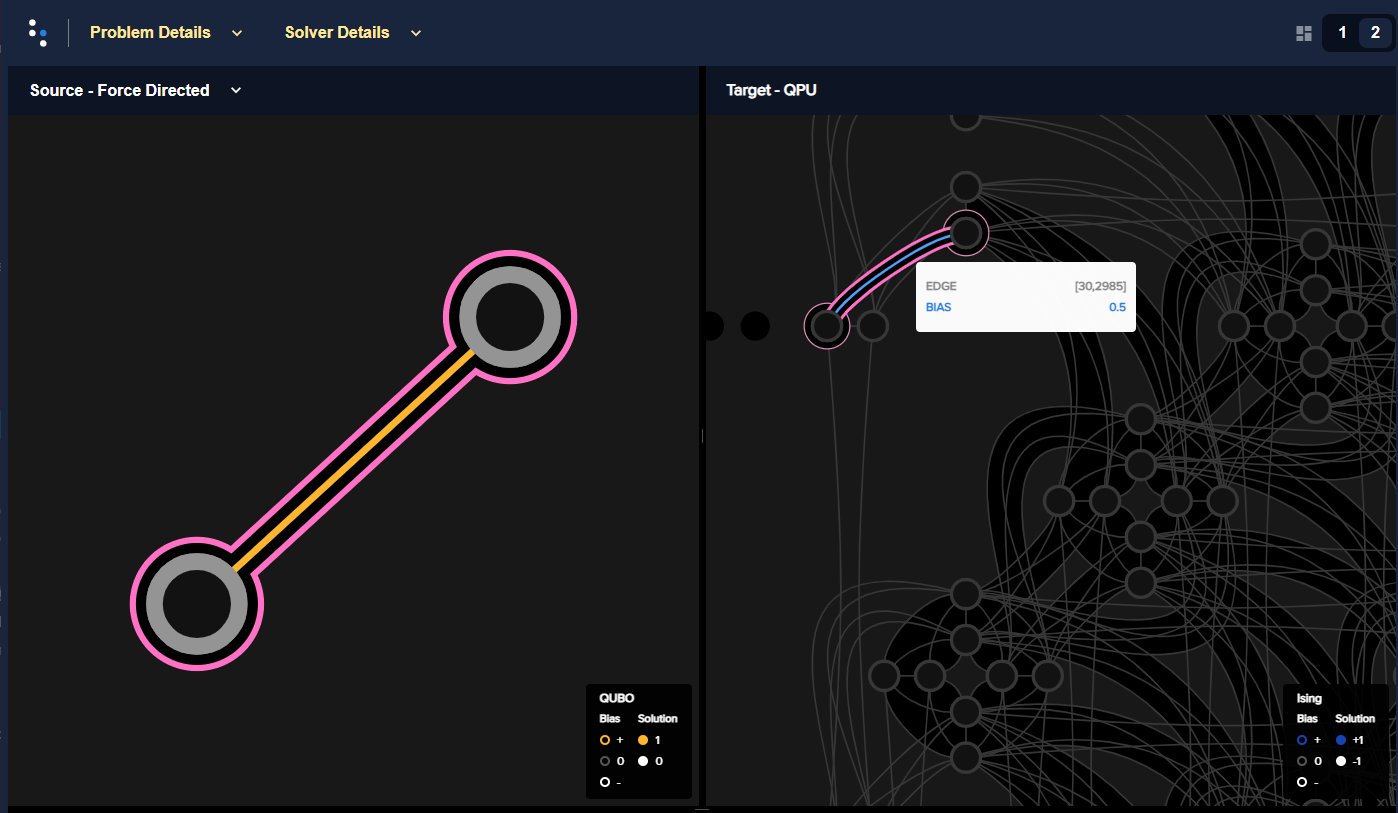
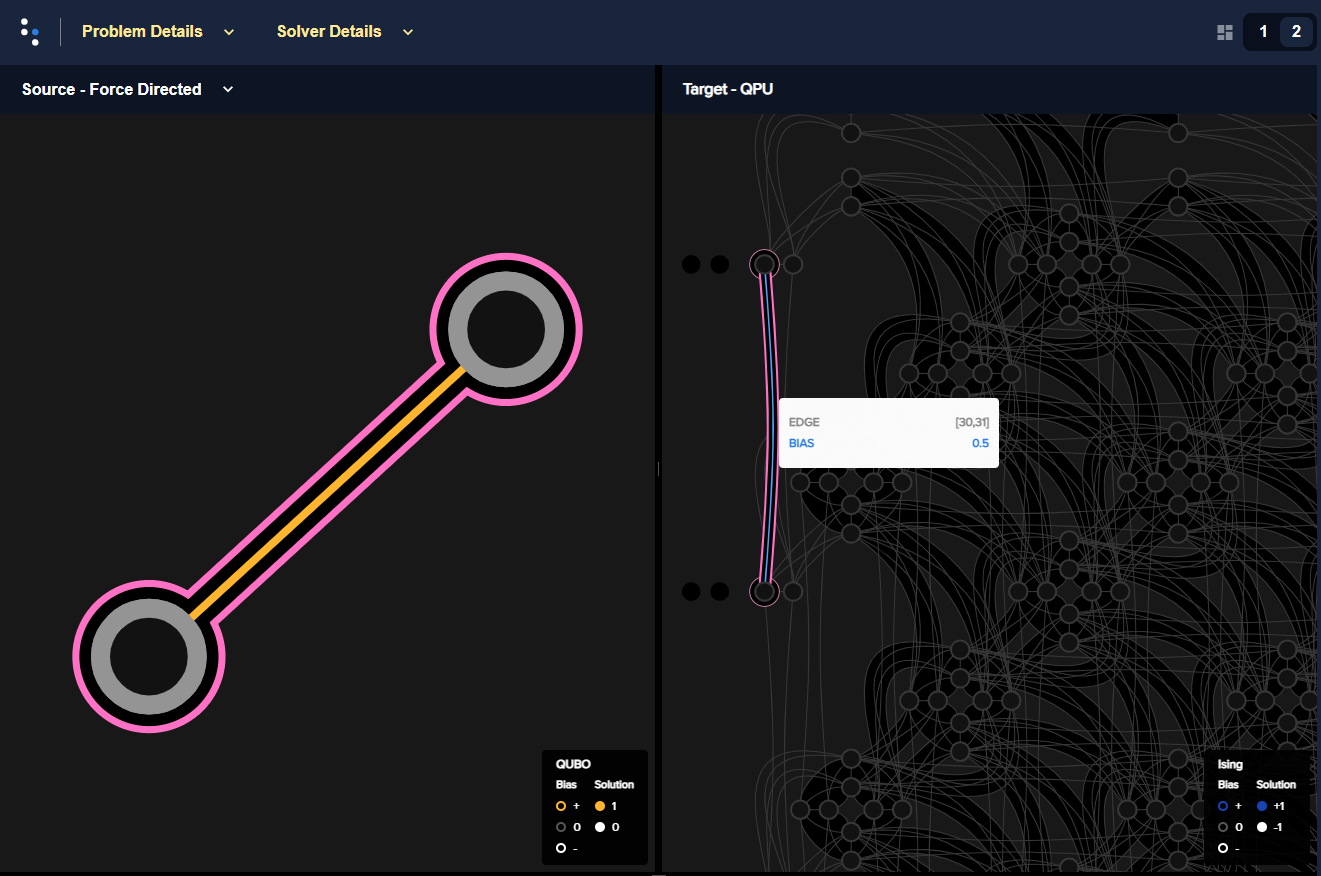
Update AND example to Pegasus (part 2)

diff --git a/docs/examples/and.rst b/docs/examples/and.rst
@@ -131,6 +131,8 @@ The line of code below sets the QUBO coefficients for this AND gate.
 
 >>> Q = {('x1', 'x2'): 1, ('x1', 'z'): -2, ('x2', 'z'): -2, ('z', 'z'): 3}
 
+.. _and_solve_by_sampling: 
+
 Solve the Problem by Sampling (Automated Minor-Embedding)
 =========================================================
 
@@ -193,8 +195,9 @@ following coefficients:
 Minor embedding maps the two problem variables x and z to the indexed qubits of the
 D-Wave QPU. Here, do this mapping yourself.
 
-The next line of code looks at properties of the sampler. Select the first node,
-which on a QPU is a qubit, and print its adjacent nodes, i.e., coupled qubits.
+The next line of code looks at the ``nodelist`` property of the sampler. Select 
+the first node, which on a QPU is a qubit, and print its adjacent nodes, i.e., 
+coupled qubits.
 
 >>> sampler.nodelist[0]
 30
@@ -202,12 +205,12 @@ which on a QPU is a qubit, and print its adjacent nodes, i.e., coupled qubits.
 {2985, 2955, 45, 2970, 2940, 31}
 
 For the Advantage system the above code ran on, you see that the first available 
-qubit, ``30``, is adjacent to qubit ``2985`` and a few others. 
+qubit, ``30``, is adjacent to qubit ``31`` and a few others. 
 
-You can map the NOT problem's two linear coefficients and single quadratic
-coefficient, :math:`q_1=q_2=-1` and :math:`q_{1,2}=2`, to biases on the 
-Advantage's qubits ``30`` and ``2985`` and coupling ``(30, 2985)``. The figure 
-below shows a minor embedding of the NOT gate onto an Advantage QPU.\ [2]_
+You can map the NOT problem's two linear coefficients (:math:`-1x` and :math:`-1z`) 
+and single quadratic coefficient (:math:`2xz`) to biases on the  Advantage's 
+qubits ``30`` and ``31`` and coupling ``[30, 31]``. The figure 
+below shows a minor embedding of the NOT gate onto an Advantage QPU.
 
 .. figure:: ../_images/embedding_pegasus_NOT.png
     :name: Embedding_Pegasus_NOT
@@ -216,30 +219,37 @@ below shows a minor embedding of the NOT gate onto an Advantage QPU.\ [2]_
     :scale: 50 %
 
     A NOT gate minor embedded onto an Advantage QPU. Variables :math:`x,z` 
-    (left) are minor-embedded as qubits ``30`` and ``2985`` (right). Coupling 
-    strength :math:`q_{1,2}=0.5` is also shown.
+    (left) are minor-embedded to qubits ``30`` and ``31`` (right). This 
+    visualization is produced by Ocean's :std:doc:`docs_inspector/sdk_index` tool.
+    
+Notice that coupling strength is :code:`BIAS 0.5` above: as explained in the 
+:std:doc:`system documentation <sysdocs_gettingstarted:doc_getting_started>`,
+the QPU can be viewed as minimizing an Ising model (see [1_]), with linear 
+biases setting the amplitudes of magnetic fields applied to qubits and quadratic 
+biases the strength of coupling between qubits. Values of a submitted QUBO are
+therefore values translated to an equivalent Ising model, producing the bias of 
+``0.5`` for the ``[30, 31]`` coupler (shown above) and zero biases on the two 
+qubits (not shown above):
 
-.. [2]
-    As explained in the 
-    :std:doc:`system documentation <sysdocs_gettingstarted:doc_getting_started>`,
-    on the QPU linear biases (amplitude of magnetic fields applied to qubits) 
-    and quadratic biases (strength of coupling between qubits) represent an 
-    Ising model (see [1_]), and therefore values are translated,
-
-    >>> dimod.qubo_to_ising(Q_not) 
-    ({'x': 0.0, 'z': 0.0}, {('x', 'z'): 0.5}, -0.5)
-
-    producing the bias of ``0.5`` for coupler ``(30, 2985)`` above. 
+>>> dimod.qubo_to_ising(Q_not) 
+({'x': 0.0, 'z': 0.0}, {('x', 'z'): 0.5}, -0.5)
 
 The following code uses the :class:`~dwave.system.composites.FixedEmbeddingComposite` 
-composite to manually minor-embed the problem on an Advantage QPU. 
+composite to manually minor-embed the problem on this Advantage QPU.\ [#]_ 
 
 >>> from dwave.system import FixedEmbeddingComposite
->>> sampler_embedded = FixedEmbeddingComposite(sampler, {"x": [30], "z": [2985]})
->>> print(sampler_embedded.adjacency["x"])
+>>> sampler_embedded = FixedEmbeddingComposite(sampler, {"x": [30], "z": [31]})   
+>>> print(sampler_embedded.adjacency["x"])   # doctest: +SKIP
 {'z'}
 
-As before, ask for 5000 samples.
+.. [#]
+    For your selected QPU, use your :code:`sampler.nodelist[0]` qubit for 
+    :math:`x` and any of its adjacent qubits, 
+    :code:`print(sampler.adjacency[sampler.nodelist[0]])`, for :math:`z`, 
+    as done above. 
+
+As in the :ref:`not` example, most the results from 5000 samples are valid 
+states of a NOT gate, with complementary values for :math:`x` and :math:`z`.
 
 >>> sampleset = sampler_embedded.sample_qubo(Q_not, num_reads=5000,
 ...                                          label='SDK Examples - AND Gate')
@@ -251,8 +261,17 @@ As before, ask for 5000 samples.
 3  1  1    0.0       1     0.0
 ['BINARY', 4 rows, 5000 samples, 2 variables]
 
-From NOT to AND: an Important Difference
-----------------------------------------
+The crucial point to understand in this subsection is that you cannot map the 
+set of your problem's variables to a set of arbitrary qubits. Quadratic models 
+have interactions between some pairs of the variables and those require the 
+existence of couplers between the qubits representing such variable pairs; 
+because the graph of a QPU is not fully connected, not all qubits are coupled.
+For variables :math:`x, z` of the NOT gate, the selection of qubit ``30`` for 
+variable :math:`x` severely limits the possible choices of qubits that can 
+represent variable :math:`z`. 
+
+From NOT to AND to Larger Problems
+----------------------------------
 
 * The BQM for a NOT gate, :math:`-x -z  + 2xz`, can be represented by a fully connected
   :math:`K_2` graph: its linear coefficients are weights of the two connected nodes with
@@ -267,113 +286,164 @@ From NOT to AND: an Important Difference
 
    NOT gate :math:`K_2` complete graph (top) versus AND gate :math:`K_3` complete graph (bottom.)
 
-In the previous section, to minor-embed a :math:`K_2` graph on a QPU, you selected
+In the previous subsection, to minor-embed a :math:`K_2` graph on a QPU, you selected
 an arbitrary qubit (the first listed for simplicity) and could then select as 
 the second any of the qubits coupled to the first. To minor-embed a fully connected
-:math:`K_3` graph on a D-Wave 2000Q system is less straightforward. 
+:math:`K_3` graph on a D-Wave QPU is less straightforward. 
 
-Larger cliques such as :math:`K_5` require *chaining* qubits.
+Consider trying to expand the minor embedding you found for the NOT gate above 
+to the AND gate. On the same QPU, map :math:`x_1` and :math:`x_2` to the qubits 
+used before, ``30`` and ``31``, respectively. For :math:`z` you now need a third 
+qubit coupled to both:
 
-Minor-Embedding an AND Gate
----------------------------
+>>> print(sampler.adjacency[30])    # doctest: +SKIP
+{2985, 2955, 45, 2970, 2940, 31}
+>>> print(sampler.adjacency[31])    # doctest: +SKIP
+{32, 46, 3150, 3120, 3165, 30, 3135}
 
-To understand how a :math:`K_3` graph fits on the :term:`Chimera` topology of the QPU,
-look at the Chimera unit cell structure shown below. You cannot connect 3 qubits in a
-closed loop. However, you can make a closed loop of 4 qubits using,
-say, qubits 0, 1, 4, and 5.
+Qubit ``30`` is coupled to 5 additional qubits and qubit ``31`` is coupled to 6,
+but none common to both. Because each qubit is coupled to a limited set of other 
+qubits, only a small subset of coupled qubits are also coupled in common to a 
+third qubit.
 
-.. figure:: ../_images/unit-cell.png
-  :name: unit-cell
-  :scale: 20 %
-  :alt: Unit cell
+In this case, a more successful selection for variables :math:`x_1` and 
+:math:`x_2` is the set of qubits ``30`` and ``2985``:
 
-  Chimera unit cell illustrated in two layouts.
+>>> print(sampler.adjacency[30])    # doctest: +SKIP
+{2985, 2955, 45, 2970, 2940, 31}
+>>> print(sampler.adjacency[2985])    # doctest: +SKIP
+{195, 165, 135, 2986, 45, 180, 150, 120, 2970, 30}
 
-To fit the 3-qubit loop into a 4-sided structure, create a chain of 2 qubits
-to represent a single variable. For example, chain qubit 0 and qubit 4 to represent variable :math:`z`.
+Both these qubits are also coupled to qubit ``45`` and ``2970``. 
 
-.. figure:: ../_images/embedding_chimera_and.png
-  :name: Embedding_Chimera_AND
-  :scale: 60 %
-  :alt: Embedding a triangular graph into Chimera by using a chain.
+The figure below shows a minor embedding of the AND gate onto an Advantage QPU.
 
-  Embedding a :math:`K_3` graph into Chimera by using a chain.
+.. figure:: ../_images/embedding_pegasus_AND.png
+    :name: Embedding_Pegasus_AND
+    :alt: image
+    :align: center
+    :scale: 50 %
 
-The strength of the coupler between qubits 0 and 4, which represents
-variable :math:`z`, must be set to correlate the qubits strongly, so that in most
-solutions they have a single value for :math:`z`. (Remember the output in the
-`Solve the Problem by Sampling: Automated Minor-Embedding`_ section with its identical
-two last lines? This was likely due to the qubits in a chain taking different values.)
+    An AND gate minor embedded onto an Advantage QPU. Variables :math:`x_1, x_2, z` 
+    (left) are minor-embedded to qubits ``30``, ``2985`` and ``45`` (right). 
 
-The code below uses Ocean's :doc:`dwave-system </docs_system/sdk_index>`
-:class:`~dwave.system.composites.FixedEmbeddingComposite` composite for manual minor-embedding
-on a D_Wave 2000Q system. Its last line prints a confirmation that indeed all three variables
-are connected (coupled).
+Can you always make a successful selection of qubits such that all your problem's
+variables are represented by qubits with couplings that can represent all the 
+interactions? Such one-to-one embeddings, with each graph node represented 
+by a single qubit, are called *native* embeddings. The largest clique you can 
+embed natively on the Pegasus topology is a :math:`K_4`. Larger cliques such as 
+:math:`K_5`, as well as large, non-clique ("sparse") graphs, require *chaining* 
+qubits.
 
->>> embedding = {'x1': {1}, 'x2': {5}, 'z': {0, 4}}
->>> sampler_embedded = FixedEmbeddingComposite(sampler, embedding)
->>> print(sampler_embedded.adjacency)     # doctest: +SKIP
-{'x1': {'x2', 'z'}, 'x2': {'x1', 'z'}, 'z': {'x1', 'x2'}}
+Chains 
+------
 
-This submission asks for 5000 samples.
+To understand how chaining qubits overcomes the problem of sparse connectivity, 
+consider minor embedding the triangular :math:`K_3` graph below into two target graphs, 
+one sparser than the other. The graphic below shows two such embeddings: 
+the :math:`K_3` graph is mapped on the left to a fully-connected graph of four 
+nodes (a :math:`K_4` complete graph ) and on the right to a sparser graph, also 
+of four nodes. 
+For the left-hand embedding, you can choose any mapping between :math:`a, b, c`
+and :math:`0, 1, 2, 3`; here :math:`a, b, c` are mapped to :math:`2, 0, 1`, 
+respectively. For the right-hand embedding, however, no choice of just three 
+target nodes suffices. The same :math:`2, 0, 1` target nodes leaves :math:`b`
+disconnected from :math:`c`. Chaining target nodes :math:`0` and :math:`3` 
+to represent node :math:`b` makes use of both the connection between :math:`0` 
+to :math:`2` and the connection between :math:`3` and :math:`1`.
 
->>> Q = {('x1', 'x2'): 1, ('x1', 'z'): -2, ('x2', 'z'): -2, ('z', 'z'): 3}
+.. figure:: ../_images/chain_triangle_four_qubits.png
+    :name: chain_Triangle_Four_Qubits
+    :alt: image
+
+    Embedding a triangular graph into fully connected and sparse four-node graphs.
+
+On QPUs, chaining qubits is accomplished by setting the strength of their 
+connecting couplers negative enough to strongly correlate the states of the 
+chained qubits; if at the end of most anneals these qubits are in the same 
+classical state, representing the same binary value in the objective function, 
+they are in effect acting as a single variable.
+
+The strength of the coupler between qubits 0 and 3, which represents variable 
+:math:`b`, must be set to correlate the qubits strongly, so that in most 
+solutions they have a single value for :math:`z`. (Remember the output in the 
+:ref:`and_solve_by_sampling` section with its lines 5 and 6? The ``chain_b.`` 
+column stands for "chain breaks", which is when qubits in a chain take different 
+values.)
+
+The previous subsection showed that if you mapped the AND problem's variables
+:math:`x_1` and :math:`x_2` to  qubits ``30`` and ``31``, respectively, on the 
+QPU used before, you could not find a single qubit coupled to both for variable 
+:math:`z`. But, for example, qubit ``30`` (representing :math:`x_1`) is coupled 
+to qubit ``45`` and qubit ``31`` (representing :math:`x_2`) is coupled to qubit 
+``46``. You can represent variable :math:`z` as a chain of qubits ``45`` and 
+``46``, which are coupled:
+
+>>> (45, 46) in sampler.edgelist  # doctest: +SKIP
+True
+>>> sampler_embedded = FixedEmbeddingComposite(sampler, {"x1": [30], "x2": [31], "z": [45, 46]})   # doctest: +SKIP
 >>> sampleset = sampler_embedded.sample_qubo(Q, num_reads=5000,
 ...                                          label='SDK Examples - AND Gate')
 >>> print(sampleset)   # doctest: +SKIP
-  x1 x2  z energy num_oc. chain_.
-0  1  0  0    0.0    2107     0.0
-1  0  1  0    0.0     684     0.0
-2  1  1  1    0.0    1011     0.0
-3  0  0  0    0.0    1193     0.0
-4  1  0  1    1.0       4     0.0
-5  1  1  0    1.0       1     0.0
-['BINARY', 6 rows, 5000 samples, 3 variables]
+  x1 x2  z energy num_oc. chain_b.
+0  0  1  0    0.0    1522      0.0
+1  1  1  1    0.0    1219      0.0
+2  0  0  0    0.0    1080      0.0
+3  1  0  0    0.0    1163      0.0
+4  1  0  1    1.0       6      0.0
+5  1  1  0    1.0       6      0.0
+6  0  1  1    1.0       2      0.0
+7  0  1  1    1.0       2 0.333333
+['BINARY', 8 rows, 5000 samples, 3 variables]
 
-Optionally, you can use the :doc:`problem-inspector </docs_inspector/sdk_index>`
-to view the solution on the QPU.
+The figure below shows this minor embedding of the AND gate onto this 
+Advantage QPU.
 
-.. note:: The next code requires the use of Ocean's problem inspector.
+.. figure:: ../_images/embedding_pegasus_AND_chain.png
+    :name: Embedding_Pegasus_AND_Chain
+    :alt: image
+    :align: center
+    :scale: 50 %
 
->>> import dwave.inspector
->>> dwave.inspector.show(sampleset)   # doctest: +SKIP
+    An AND gate minor embedded onto an Advantage QPU. Variables :math:`x_1, x_2, z` 
+    (left) are minor-embedded to qubits ``30``, ``31`` and chain ``[45, 46]`` (right). 
 
-.. figure:: ../_static/inspector_AND.png
-  :name: inspector_AND
-  :scale: 50 %
-  :alt: View rendered by Ocean's problem inspector.
 
-  View of the logical and embedded problem rendered by Ocean's problem inspector. The AND gate's original QUBO is represented on the left; its embedded representation, on the right, shows a two-qubit chain of qubits 0 and 4 for variable Z. The current solution displayed, :math:`X1=1, X2=0, Z=0`, is represented by white and gold dots for binary :math:`0, 1` and white and blue dots for spin values :math:`-1, 1`.
+Chain Strength 
+--------------
 
-For comparison, the following code purposely weakens the
-:ref:`concepts__chain_strength` (strength of the
-coupler between qubits 0 and 4, which represents variable :math:`z`). The first
+For illustrative purposes, the following code purposely weakens the
+:ref:`concepts__chain_strength` (strength of the coupling between qubits ``45`` 
+and ``46``, which represent variable :math:`z`). The first
 line prints the range of values available for the D-Wave system this code is executed
 on. By explicitly setting chain strength to a low value of 0.25, the two qubits are not
 strongly correlated and the result is that many returned samples represent invalid states
 for an AND gate.
 
->>> print(sampler.properties['extended_j_range'])
-[-2.0, 1.0]
->>> sampler_embedded = FixedEmbeddingComposite(sampler, embedding)
+.. note:: The next code requires the use of Ocean's 
+    :std:doc:`docs_inspector/sdk_index` tool.
+
+>>> import dwave.inspector
 >>> sampleset = sampler_embedded.sample_qubo(Q, num_reads=5000,
 ...                                          chain_strength=0.25,
-...                                          label='SDK Examples - AND Gate')
+...                                          label='SDK Examples - AND Gate')   # doctest: +SKIP
 >>> print(sampleset)   # doctest: +SKIP
   x1 x2  z energy num_oc. chain_b.
-0  1  0  0    0.0     629      0.0
-1  0  1  0    0.0     693      0.0
-3  1  1  1    0.0     660      0.0
-4  0  0  0    0.0     812      0.0
-2  1  0  1    1.0     773 0.333333
-5  0  1  1    1.0    1432 0.333333
-6  0  1  1    1.0       1      0.0
-['BINARY', 7 rows, 5000 samples, 3 variables]
+  x1 x2  z energy num_oc. chain_b.
+0  0  1  0    0.0    1046      0.0
+1  1  1  1    0.0     401      0.0
+2  0  0  0    0.0    1108      0.0
+3  1  0  0    0.0     885      0.0
+4  1  0  1    1.0     917 0.333333
+5  0  1  1    1.0     643 0.333333
+['BINARY', 6 rows, 5000 samples, 3 variables]
 
 In this case, you are likely to see broken chains (non-zero values in the
-:code:`chain_breaks` column) and calling the problem inspector shows these:
+:code:`chain_b.` column) and calling the problem inspector shows these:
 
-.. figure:: ../_static/inspector_AND_broken_chain.png
+>>> dwave.inspector.show(sampleset)   # doctest: +SKIP
+
+.. figure:: ../_images/inspector_AND_broken_chain.png
   :name: inspector_AND_broken_chain
   :scale: 50 %
   :alt: View rendered by Ocean's problem inspector.
